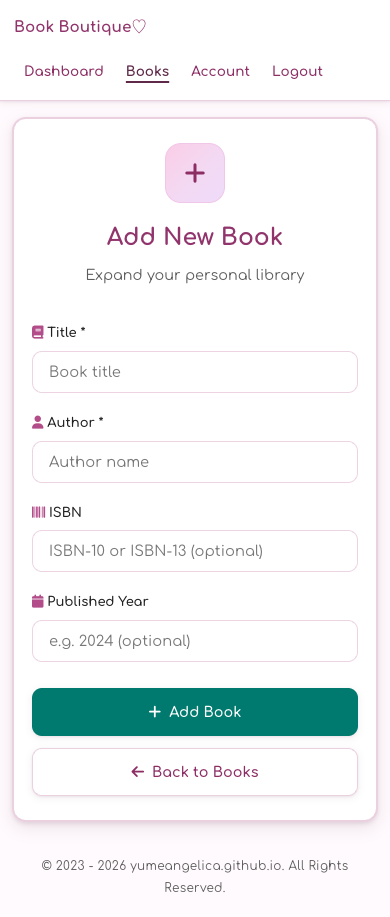
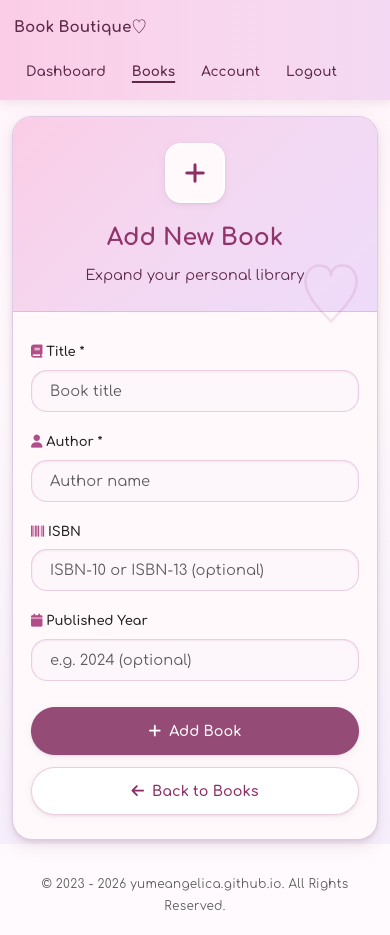
style: adopt duo-card bands, gradient nav and pill controls from sister apps

diff --git a/public/css/style.css b/public/css/style.css
@@ -18,8 +18,6 @@
   --color-card-bg: rgb(254, 239, 249);
   --color-button: rgb(148, 75, 118);
   --color-button-hover: rgb(130, 62, 100);
-  --color-success-button: rgb(0, 122, 110);
-  --color-success-button-hover: rgb(0, 102, 92);
   --color-border: rgba(178, 77, 137, 0.26);
   --color-border-focus: rgba(178, 77, 137, 0.3);
   --color-muted: rgb(93, 93, 93);
@@ -27,13 +25,24 @@
   --color-success-light: rgb(232, 245, 233);
   --color-danger: rgb(155, 45, 45);
   --color-danger-light: rgb(252, 238, 238);
+  /* cream "duo card" surfaces and pink->lilac gradients shared with the
+     author's sister projects (yumeangelica.github.io, needypet) */
+  --color-card-cream: rgb(255, 249, 252);
+  --color-card-edge: rgba(204, 179, 216, 0.65);
+  --color-well: rgb(246, 236, 251);
+  --color-surface-field: rgb(253, 246, 251);
+  --color-pill-cream: rgba(255, 249, 252, 0.72);
   --gradient-soft: linear-gradient(135deg, #fbcde6 0%, #f3d9f3 55%, #eedbfa 100%);
+  --gradient-nav: linear-gradient(90deg, #fbcde6 0%, #f8d7ee 55%, #f3d9f3 100%);
+  --shadow-nav: 0 2px 12px rgba(178, 110, 150, 0.2);
   --shadow-sm: 0 1px 2px rgba(95, 41, 74, 0.08), 0 2px 8px rgba(95, 41, 74, 0.08);
   --shadow-md: 0 2px 4px rgba(95, 41, 74, 0.1), 0 6px 16px rgba(95, 41, 74, 0.12);
   --shadow-lg: 0 4px 8px rgba(95, 41, 74, 0.1), 0 12px 28px rgba(95, 41, 74, 0.16);
   --radius-sm: 10px;
   --radius-md: 14px;
   --radius-lg: 20px;
+  --radius-xl: 25px;
+  --radius-pill: 999px;
   --tap-target: 44px;
   --transition: 0.3s ease;
 }
@@ -50,6 +59,8 @@ html { scroll-behavior: smooth; }
 
 body {
   background-color: var(--color-background);
+  background-image: linear-gradient(180deg, rgb(255, 245, 251) 0%, rgb(255, 250, 253) 45%, rgb(247, 240, 252) 100%);
+  background-attachment: fixed;
   color: var(--color-text);
   min-height: 100vh;
   line-height: 1.8;
@@ -105,9 +116,8 @@ main:focus { outline: none; }
 
 /* ── Site Header & Nav ── */
 .site-header {
-  background: var(--color-white);
-  border-bottom: 1px solid var(--color-border);
-  box-shadow: var(--shadow-sm);
+  background: var(--gradient-nav);
+  box-shadow: var(--shadow-nav);
 }
 
 .site-nav {
@@ -127,10 +137,10 @@ main:focus { outline: none; }
   min-height: var(--tap-target);
   font-weight: 700;
   font-size: 0.95rem;
-  color: var(--color-heading);
+  color: var(--color-primary-dark);
 }
 
-.site-nav__brand:hover { color: var(--color-primary-dark); }
+.site-nav__brand:hover { color: var(--color-primary-strong); }
 
 .site-nav__links {
   list-style: none;
@@ -145,16 +155,16 @@ main:focus { outline: none; }
   display: inline-flex;
   align-items: center;
   min-height: var(--tap-target);
-  padding: 4px 10px;
+  padding: 4px 12px;
   font-size: 0.85rem;
   font-weight: 600;
-  color: var(--color-primary-strong);
-  border-radius: var(--radius-sm);
+  color: var(--color-primary-dark);
+  border-radius: var(--radius-pill);
 }
 
 .site-nav__link:hover {
-  background: var(--color-primary-lighter);
-  color: var(--color-primary-dark);
+  background: var(--color-pill-cream);
+  color: var(--color-primary-strong);
 }
 
 .site-nav__link[aria-current="page"] {
@@ -179,14 +189,15 @@ main:focus { outline: none; }
   padding-top: 24px;
 }
 
-/* ── Cards — light & airy ── */
+/* ── Cards — cream body with a pink→lilac gradient band (duo card) ── */
 .card {
-  background: var(--color-white);
-  border: 2px solid var(--color-border);
-  border-radius: var(--radius-md);
+  background: var(--color-card-cream);
+  border: 1.5px solid var(--color-card-edge);
+  border-radius: var(--radius-lg);
   padding: 24px 18px;
   width: 100%;
   box-shadow: var(--shadow-md);
+  overflow: hidden;
 }
 
 .card--sm { max-width: 440px; }
@@ -194,17 +205,33 @@ main:focus { outline: none; }
 .card--lg { max-width: 720px; }
 .card--xl { max-width: 1100px; }
 
-/* ── Page Header ── */
+/* ── Page Header — gradient band bleeding to the card edges ── */
 .page-header {
+  position: relative;
   text-align: center;
-  margin-bottom: 32px;
+  background: var(--gradient-soft);
+  margin: -24px -18px 28px;
+  padding: 26px 18px 22px;
+  border-bottom: 1px solid var(--color-card-edge);
+}
+
+/* decorative heart watermark on the band */
+.page-header::after {
+  content: "\2661" / "";
+  position: absolute;
+  right: 14px;
+  bottom: -18px;
+  font-size: 64px;
+  line-height: 1;
+  color: rgba(178, 77, 137, 0.14);
+  pointer-events: none;
 }
 
 .page-header__icon {
   width: 60px;
   height: 60px;
-  background: var(--gradient-soft);
-  border: 1px solid var(--color-primary-light);
+  background: var(--color-card-cream);
+  border: 2px solid rgba(255, 255, 255, 0.9);
   border-radius: 16px;
   display: flex;
   align-items: center;
@@ -212,6 +239,7 @@ main:focus { outline: none; }
   margin: 0 auto 14px;
   color: var(--color-primary-strong);
   font-size: 24px;
+  box-shadow: var(--shadow-sm);
 }
 
 .page-header__icon--round {
@@ -230,7 +258,7 @@ main:focus { outline: none; }
 
 .page-header__subtitle {
   font-size: 0.9rem;
-  color: var(--color-muted);
+  color: var(--color-primary-dark);
   margin: 0;
   font-weight: 400;
 }
@@ -270,23 +298,25 @@ strong { font-weight: 700; }
 
 .form-input {
   width: 100%;
-  padding: 12px 16px;
+  padding: 12px 18px;
   border: 1.6px solid rgba(178, 77, 137, 0.24);
-  border-radius: var(--radius-sm);
+  border-radius: 16px;
   font-size: 0.92rem;
   font-family: 'Comfortaa', sans-serif;
-  background: var(--color-white);
+  background: var(--color-surface-field);
   color: var(--color-text);
+  box-shadow: inset 0 1px 2px rgba(178, 110, 150, 0.12);
   transition: border-color var(--transition), box-shadow var(--transition);
 }
 
 .form-input:focus {
-  border-color: var(--color-primary-light);
+  border-color: var(--color-primary);
+  background: var(--color-white);
   box-shadow: 0 0 0 3px rgba(241, 199, 232, 0.4);
 }
 
 .form-input::placeholder {
-  color: rgb(118, 118, 118);
+  color: var(--color-muted);
   opacity: 1;
 }
 
@@ -309,7 +339,7 @@ strong { font-weight: 700; }
   min-height: var(--tap-target);
   padding: 11px 24px;
   border: none;
-  border-radius: var(--radius-sm);
+  border-radius: var(--radius-pill);
   font-family: 'Comfortaa', sans-serif;
   font-size: 0.85rem;
   font-weight: 600;
@@ -359,15 +389,15 @@ strong { font-weight: 700; }
   color: rgb(130, 35, 35);
 }
 
-/* Success — solid teal, white text (AA) */
+/* Success — same solid plum as primary; affirmative actions share one color */
 .btn--success {
-  background: var(--color-success-button);
+  background: var(--color-button);
   color: var(--color-white);
   border: 1.5px solid transparent;
 }
 
 .btn--success:hover {
-  background: var(--color-success-button-hover);
+  background: var(--color-button-hover);
   color: var(--color-white);
 }
 
@@ -408,10 +438,10 @@ strong { font-weight: 700; }
   border-left: 3px solid var(--color-danger);
 }
 
-/* ── Info Box — pastel ── */
+/* ── Info Box — lilac well ── */
 .info-box {
-  background: var(--color-primary-lighter);
-  border: 1.8px solid var(--color-primary-light);
+  background: var(--color-well);
+  border: 1.5px solid var(--color-card-edge);
   border-radius: var(--radius-md);
   padding: 22px;
   margin-bottom: 22px;
@@ -495,7 +525,7 @@ strong { font-weight: 700; }
 /* ── Table — light headers ── */
 .table-wrap {
   background: var(--color-white);
-  border: 1.9px solid var(--color-border);
+  border: 1.5px solid var(--color-card-edge);
   border-radius: var(--radius-md);
   overflow-x: auto;
   margin-bottom: 24px;
@@ -504,8 +534,10 @@ strong { font-weight: 700; }
 
 .table { width: 100%; border-collapse: collapse; }
 
+.table thead { background: var(--gradient-soft); }
+
 .table th {
-  background: var(--color-primary-lighter);
+  background: transparent;
   color: var(--color-primary-strong);
   font-weight: 700;
   font-size: 0.75rem;
@@ -576,9 +608,9 @@ strong { font-weight: 700; }
 /* ── Password Requirements ── */
 .pw-reqs {
   padding: 14px;
-  background: var(--color-primary-lighter);
-  border-radius: var(--radius-sm);
-  border: 1.8px solid var(--color-primary-light);
+  background: var(--color-well);
+  border-radius: var(--radius-md);
+  border: 1.5px solid var(--color-card-edge);
   margin-top: 8px;
   margin-bottom: 18px;
   font-size: 0.8rem;
@@ -634,8 +666,8 @@ strong { font-weight: 700; }
 }
 
 .collapse-section--neutral {
-  background: var(--color-primary-lighter);
-  border-color: var(--color-primary-light);
+  background: var(--color-well);
+  border-color: var(--color-card-edge);
 }
 
 /* ── Divider ── */
@@ -645,7 +677,7 @@ strong { font-weight: 700; }
   margin: 22px 0;
 }
 
-/* ── Link Row ── */
+/* ── Link Row — with a small heart divider like the portfolio site ── */
 .link-row {
   text-align: center;
   margin-top: 22px;
@@ -653,16 +685,19 @@ strong { font-weight: 700; }
   color: var(--color-muted);
 }
 
-.link-row a { font-weight: 600; }
-
-/* ── Login Page — slightly stronger contrast ── */
-.login-page .card {
-  border: 1.8px solid rgba(178, 77, 137, 0.24);
-  box-shadow: var(--shadow-lg);
+.link-row::before {
+  content: "\2661" / "";
+  display: block;
+  color: var(--color-primary);
+  font-size: 1rem;
+  margin-bottom: 6px;
 }
 
-.login-page .page-header__icon {
-  border-width: 1.5px;
+.link-row a { font-weight: 600; }
+
+/* ── Login Page — slightly stronger presence ── */
+.login-page .card {
+  box-shadow: var(--shadow-lg);
 }
 
 .login-page .form-input {
@@ -698,7 +733,9 @@ strong { font-weight: 700; }
   .page-wrapper { padding: 32px 20px; }
   .page-wrapper--top { padding-top: 48px; }
 
-  .card { padding: 40px; border-radius: var(--radius-lg); }
+  .card { padding: 40px; border-radius: var(--radius-xl); }
+
+  .page-header { margin: -40px -40px 32px; padding: 32px 40px 26px; }
 
   .actions { flex-direction: row; }
   .actions--stack { flex-direction: column; }
